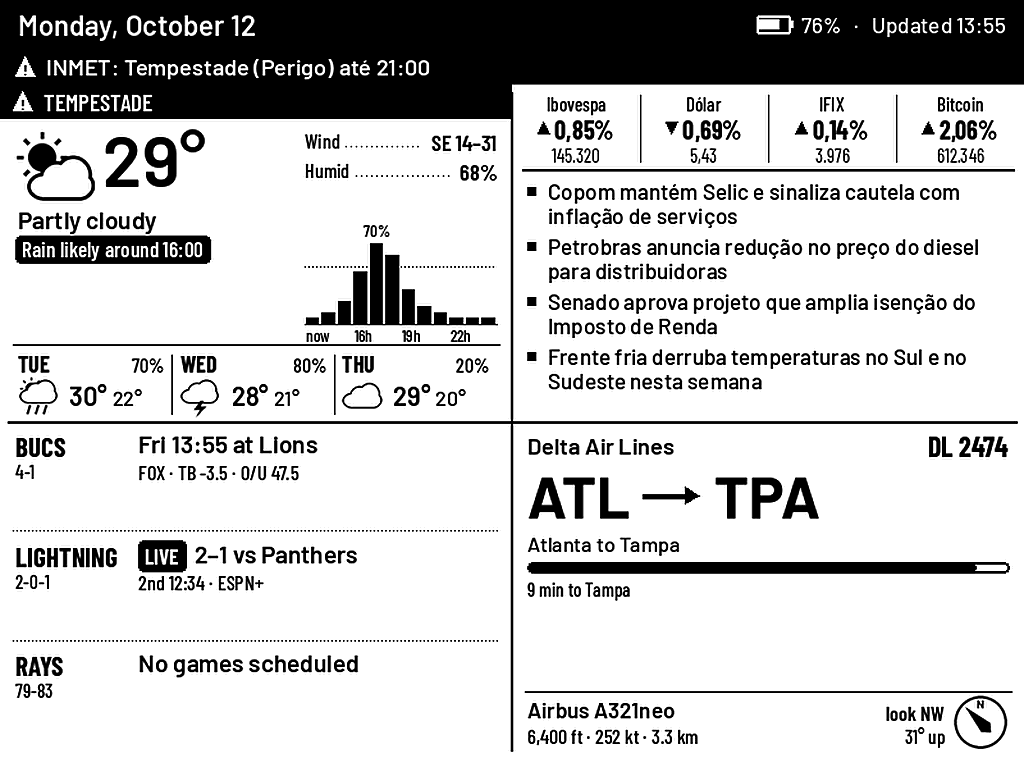
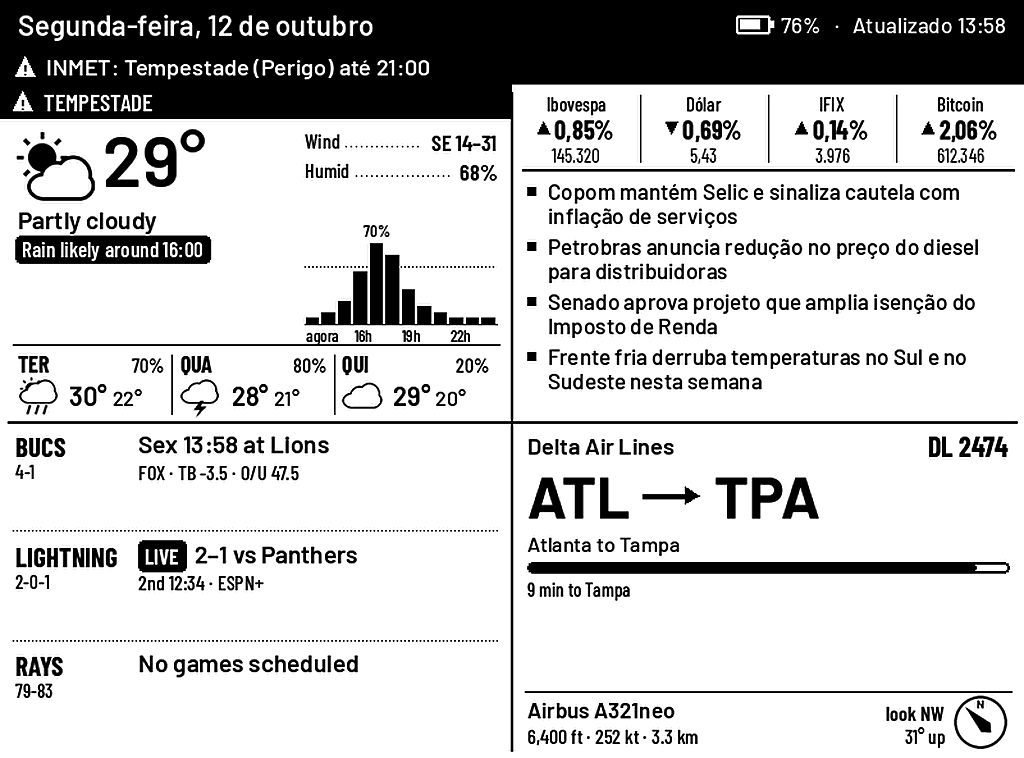
Dates and times in Portuguese
New lang setting (pt | en), default pt, for every date and time word on
the board: the header ("Segunda-feira, 12 de outubro · Atualizado 13:58"),
forecast day names (TER, QUARTA, HOJE), game times (Hoje / Amanhã / Qua
19:00 / 12 out), result dates, "agora", "há 5 min", "em 20 min", and the
header's battery and indoor labels. Uses built-in name tables, so it does
not depend on the server having a pt_BR locale.

Claude-Session: https://claude.ai/code/session_01GVZJyjXu3HFDda6DCF8SeA

diff --git a/server/web/dashboard.html b/server/web/dashboard.html
@@ -127,6 +127,7 @@ td:first-child{font-weight:600;white-space:nowrap}
         <label>Label<input name="label"></label>
         <label>City (for the brief)<input name="city"></label>
         <label>Units<select name="units"><option value="C">°C, km/h</option><option value="F">°F, mph</option></select></label>
+        <label>Dates<select name="lang"><option value="pt">Português (segunda-feira, 12 de outubro)</option><option value="en">English (Monday, October 12)</option></select></label>
         <label>Clock<select name="clock"><option value="24">24-hour (19:30)</option><option value="12">12-hour (7:30 PM)</option></select></label>
         <label>Weather alerts<select name="alerts"><option value="auto">Auto (by location)</option>
           <option value="inmet">INMET (Brazil)</option><option value="nws">NWS (US)</option><option value="off">Off</option></select></label>

diff --git a/server/render.py b/server/render.py
@@ -269,29 +269,66 @@ def hm(ts, ampm=True):
     return s + (" AM" if t.tm_hour < 12 else " PM") if ampm else s
 
 
+# Dates in Portuguese without depending on the server having a pt_BR locale
+_DAYS_PT = ["Segunda-feira", "Terça-feira", "Quarta-feira", "Quinta-feira", "Sexta-feira", "Sábado", "Domingo"]
+_DAYS_PT_SHORT = ["Seg", "Ter", "Qua", "Qui", "Sex", "Sáb", "Dom"]
+_MONTHS_PT = ["janeiro", "fevereiro", "março", "abril", "maio", "junho", "julho", "agosto", "setembro",
+              "outubro", "novembro", "dezembro"]
+_WORDS_PT = {"Today": "Hoje", "Tonight": "Hoje", "Tomorrow": "Amanhã", "TODAY": "HOJE", "Updated": "Atualizado",
+             "time TBD": "horário a definir", "now": "agora", "just now": "agora", "plug me in": "carregar",
+             "Inside": "Dentro", "Next": "Próximo"}
+
+
+def pt():
+    return sources.LANG == "pt"
+
+
+def tr(s):
+    """A date/time word in the board's language."""
+    return _WORDS_PT.get(s, s) if pt() else s
+
+
+def day_name(t, short=False):
+    if pt():
+        return (_DAYS_PT_SHORT if short else _DAYS_PT)[t.tm_wday]
+    return time.strftime("%a" if short else "%A", t)
+
+
+def day_month(t):
+    """'12 out' / 'Oct 12'."""
+    return f"{t.tm_mday} {_MONTHS_PT[t.tm_mon - 1][:3]}" if pt() else time.strftime("%b ", t) + str(t.tm_mday)
+
+
+def long_date(t):
+    """Header date: 'Segunda-feira, 12 de outubro' / 'Monday, October 12'."""
+    if pt():
+        return f"{_DAYS_PT[t.tm_wday]}, {t.tm_mday} de {_MONTHS_PT[t.tm_mon - 1]}"
+    return time.strftime("%A, %B ", t) + str(t.tm_mday)
+
+
 def when(ts, tbd=False):
-    """Friendly game time: 'Tonight 19:00', 'Tomorrow 13:00', 'Sun 13:00', 'Oct 12' (or 12h)."""
+    """Friendly game time: 'Hoje 19:00', 'Amanhã 13:00', 'Dom 13:00', '12 out' (or in English)."""
     now = time.localtime()
     t = time.localtime(ts)
     days = (time.mktime(t[:3] + (0, 0, 0, 0, 0, -1)) - time.mktime(now[:3] + (0, 0, 0, 0, 0, -1))) / 86400
     days = round(days)
     clock = "" if tbd else " " + hm(ts)
     if days == 0:
-        return ("Tonight" if t.tm_hour >= 17 else "Today") + (clock if not tbd else " · time TBD")
+        return tr("Tonight" if t.tm_hour >= 17 else "Today") + (clock if not tbd else " · " + tr("time TBD"))
     if days == 1:
-        return "Tomorrow" + clock
+        return tr("Tomorrow") + clock
     if 1 < days < 7:
-        return time.strftime("%a", t) + clock
-    return time.strftime("%b ", t) + str(t.tm_mday) + clock
+        return day_name(t, short=True) + clock
+    return day_month(t) + clock
 
 
 def ago(ts):
     m = int((time.time() - ts) // 60)
     if m < 1:
-        return "just now"
+        return tr("just now")
     if m < 60:
-        return f"{m} min ago"
-    return f"{m // 60}h {m % 60:02d}m ago"
+        return f"há {m} min" if pt() else f"{m} min ago"
+    return f"há {m // 60}h{m % 60:02d}" if pt() else f"{m // 60}h {m % 60:02d}m ago"
 
 
 # ================================================================== panels
@@ -427,7 +464,7 @@ def panel_weather(ctx: Ctx, size):
             x = 10 + i * cw
             t = time.strptime(day.date, "%Y-%m-%d")
             dn, dk = wmo(day.code)
-            text(d, (x + 4, top), time.strftime("%a", t).upper(), F("cb", 18))
+            text(d, (x + 4, top), day_name(t, short=True).upper(), F("cb", 18))
             text(d, (x + cw - 8, top + 2), f"{day.pop}%", F("cm", 16), anchor="ra")
             paste_icon(c, dk, int(x + 4), int(top + 21), 32)
             hs = f"{day.hi:.0f}°"
@@ -457,7 +494,7 @@ def _rain_bars(d, hourly, now, x0, x1, y0, y1):
         if hgt >= 1:
             d.rectangle((bx + 1, by1 - hgt, bx + cw - 2, by1), fill=INK)
         if i % 3 == 0:
-            lab = "now" if i == 0 else sources.hour_label(ts)
+            lab = tr("now") if i == 0 else sources.hour_label(ts)
             text(d, (bx + 1, by1 + 1), lab, fl)
     pk = hrs[peak][2]
     if pk >= 10:
@@ -780,7 +817,7 @@ def _event_card(c, d, ctx, size):
     head = "SPACE STATION" if ev.kind == "iss" else "ROCKET LAUNCH"
     d.rectangle((0, 0, w, 30), fill=INK)
     text(d, (12, 15), head, F("cb", 22), fill=PAPER, anchor="lm")
-    when_s = "now" if ev.start <= ctx.now else (f"in {mins} min" if mins < 90 else hm(ev.start))
+    when_s = tr("now") if ev.start <= ctx.now else ((f"em {mins} min" if pt() else f"in {mins} min") if mins < 90 else hm(ev.start))
     text(d, (w - 12, 15), when_s.upper(), F("cb", 22), fill=PAPER, anchor="rm")
     text(d, (12, 40), ellipsize(d, ev.title, F("b", 34), w - 110), F("b", 34))
     text(d, (12, 82), ellipsize(d, ev.subtitle or "", F("m", 17), w - 110), F("m", 17))
@@ -808,19 +845,19 @@ def header(ctx: Ctx):
     c, d = canvas((W, HEAD_H))
     d.rectangle((0, 0, W, HEAD_H), fill=INK)
     t = time.localtime(ctx.now)
-    date = time.strftime("%A, %B ", t) + str(t.tm_mday)
+    date = long_date(t)
     text(d, (14, HEAD_H / 2), date, F("sb", 22), fill=PAPER, anchor="lm")
     # right side, laid out right-to-left: updated time, battery, indoor
     f = F("m", 17)
     sep = "   ·   "
     x = W - 14
-    s = f"Updated {hm(ctx.updated or ctx.now)}"
+    s = f"{tr('Updated')} {hm(ctx.updated or ctx.now)}"
     text(d, (x, HEAD_H / 2), s, f, fill=PAPER, anchor="rm")
     x -= tw(d, s, f)
     if ctx.battery is not None:
         x -= tw(d, sep, f)
         text(d, (x, HEAD_H / 2), sep, f, fill=PAPER, anchor="lm")
-        pct = f"{ctx.battery}%" + ("  plug me in" if ctx.battery <= 20 else "")
+        pct = f"{ctx.battery}%" + ("  " + tr("plug me in") if ctx.battery <= 20 else "")
         x -= tw(d, pct, f)
         text(d, (x, HEAD_H / 2), pct, f, fill=PAPER, anchor="lm")
         # battery glyph: outline, nub, fill proportional to charge
@@ -834,7 +871,7 @@ def header(ctx: Ctx):
     if ctx.indoor_f is not None:
         x -= tw(d, sep, f)
         text(d, (x, HEAD_H / 2), sep, f, fill=PAPER, anchor="lm")
-        s = f"Inside {ctx.indoor_f:.0f}°" + (f" {ctx.indoor_rh:.0f}%" if ctx.indoor_rh is not None else "")
+        s = f"{tr('Inside')} {ctx.indoor_f:.0f}°" + (f" {ctx.indoor_rh:.0f}%" if ctx.indoor_rh is not None else "")
         text(d, (x, HEAD_H / 2), s, f, fill=PAPER, anchor="rm")
     if ctx.notes_new:
         f = F("csb", 17)
@@ -949,7 +986,7 @@ def detail_weather(ctx, size):
         x = 10 + i * cw
         t = time.strptime(day.date, "%Y-%m-%d")
         dn, dk = wmo(day.code)
-        text(d, (x + cw / 2, top + 4), "TODAY" if i == 0 else time.strftime("%A", t).upper(), F("cb", 19), anchor="ma")
+        text(d, (x + cw / 2, top + 4), tr("TODAY") if i == 0 else day_name(t).split("-")[0].upper(), F("cb", 19), anchor="ma")
         paste_icon(c, dk, int(x + cw / 2 - 30), top + 30, 60)
         text(d, (x + cw / 2, top + 96), f"{day.hi:.0f}°  {day.lo:.0f}°", F("sb", 24), anchor="ma")
         text(d, (x + cw / 2, top + 126), dn, F("m", 16), anchor="ma")
@@ -1032,7 +1069,7 @@ def detail_sports(ctx, size):
                 xx = pill(d, x, y + 6, g.result or "–", F("cb", 18), h=24) + 8
                 s = f"{g.us}–{g.them} " + ("vs " if g.home else "at ") + g.opp_name
                 text(d, (xx, y + 4), s, F("sb", 21))
-                dt = time.strftime("%a %b ", time.localtime(g.start)) + str(time.localtime(g.start).tm_mday)
+                dt = day_name(time.localtime(g.start), short=True) + " " + day_month(time.localtime(g.start))
                 if g.ats and ctx.cfg.get("odds", True) and g.odds.spread_us is not None and _sport(r) not in ("hockey", "baseball"):
                     dt += f" · {g.ats} {g.odds.spread_us:+g}"
                 text(d, (xx, y + 30), dt, F("cm", 16))
@@ -1086,7 +1123,7 @@ def detail_sky(ctx, size):
         y += 22
     if ctx.upcoming and y < h - 24:
         ev = ctx.upcoming[0]
-        text(d, (x + 8, h - 24), ellipsize(d, f"Next: {ev.title} {time.strftime('%a', time.localtime(ev.start))} {hm(ev.start)}",
+        text(d, (x + 8, h - 24), ellipsize(d, f"{tr('Next')}: {ev.title} {day_name(time.localtime(ev.start), short=True)} {hm(ev.start)}",
                                          F("csb", 16), w - x - 20), F("csb", 16))
     return c
 

diff --git a/server/app.py b/server/app.py
@@ -55,6 +55,7 @@ DEFAULTS = {
     "lat": 27.9506, "lon": -82.4572,
     "units": "C",                # C = °C and km/h; F = °F and mph
     "clock": "24",               # 24 | 12
+    "lang": "pt",                # dates and times: pt | en
     "alerts": "auto",            # auto (NWS in the US, INMET in Brazil) | nws | inmet | off
     "alert_geocode": "",         # optional IBGE city code, for INMET alerts without a polygon
     "slots": ["weather", "news", "sports", "sky"],
@@ -122,6 +123,7 @@ def save_json(path, obj):
 
 cfg = {**DEFAULTS, **load_json(CONFIG_PATH, {})}
 S.CLOCK24 = cfg.get("clock") != "12"
+S.LANG = "en" if cfg.get("lang") == "en" else "pt"
 S.DECIMAL_COMMA = cfg.get("number_format") != "us"
 S.TEAMS.update({k: tuple(v) for k, v in cfg.get("custom_teams", {}).items()})
 
@@ -677,6 +679,7 @@ class H(BaseHTTPRequestHandler):
         cfg.clear()
         cfg.update(new)
         S.CLOCK24 = cfg.get("clock") != "12"
+        S.LANG = "en" if cfg.get("lang") == "en" else "pt"
         S.DECIMAL_COMMA = cfg.get("number_format") != "us"
         S.TEAMS.update({k: tuple(v) for k, v in cfg.get("custom_teams", {}).items()})
         save_json(CONFIG_PATH, {k: v for k, v in cfg.items() if DEFAULTS.get(k) != v})

diff --git a/server/sources.py b/server/sources.py
@@ -302,6 +302,7 @@ def alert_source(cfg):
 
 
 CLOCK24 = True     # 24-hour clock everywhere; app.py sets it from cfg["clock"]
+LANG = "pt"        # dates and times on the board: pt | en; app.py sets it from cfg["lang"]
 
 
 def _hm(epoch):

diff --git a/README.md b/README.md
@@ -101,7 +101,7 @@ On first boot the board opens a Wi-Fi setup portal named `QuadBoard-XXXX`. Join 
 ## Notes
 
 - Times use the server's `TZ` (defaults to `America/Sao_Paulo`). Market hours are always NYSE's.
-- Units default to °C and km/h, the clock to 24-hour and numbers to 1.234,56; all switch on the dashboard.
+- Units default to °C and km/h, the clock to 24-hour, dates to Portuguese ("Segunda-feira, 12 de outubro") and numbers to 1.234,56; all switch on the dashboard.
 - Default tickers: Ibovespa (`^BVSP`), dólar (`BRL=X`), IFIX (`IFIX.SA`) and bitcoin in reais (`BTC-BRL`). Each one's open/closed state follows its own market (B3, FX, crypto or NYSE).
 - The notes feature reads a separate "note box" project's database and is off unless `QUAD_NOTES_DB` is set.
 - Team logos and airline logos are downloaded at runtime and cached in `server/cache/`. None are shipped in this repo.
